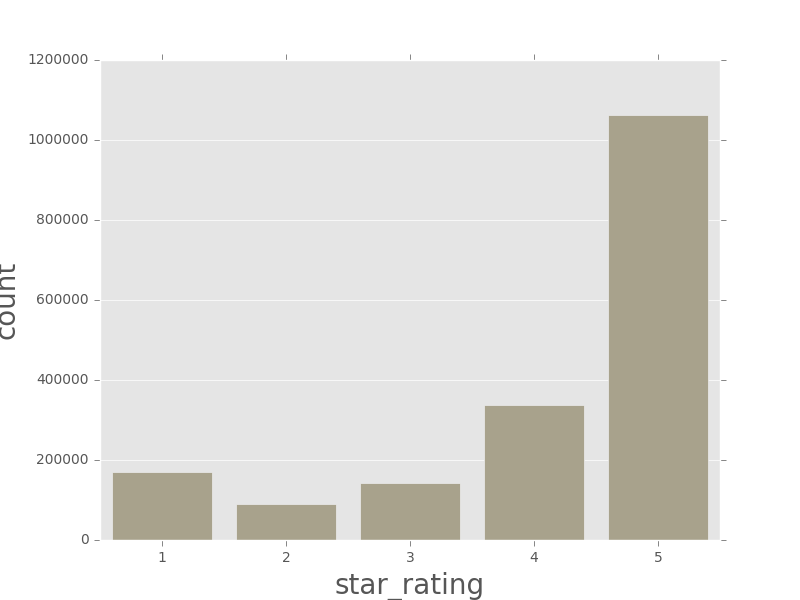
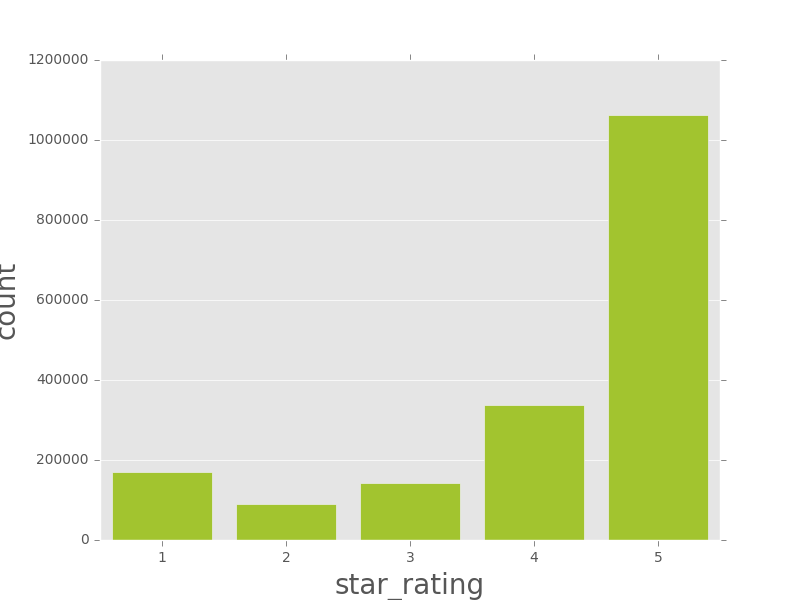
Update Results

Changed region(s): [[0.125, 0.18, 0.9062, 0.9]]

diff --git a/Hists_votes_dist.py b/Hists_votes_dist.py
@@ -1,0 +1,221 @@
+import matplotlib
+matplotlib.use('Agg')
+import os
+import pandas as pd
+import numpy as np
+import matplotlib.pyplot as plt
+import pylab
+import scipy.stats as stats
+import seaborn as sns
+matplotlib.style.use('ggplot')
+
+
+file = raw_input("Input File Name: ")
+color = raw_input("Input Hist Color: ")
+
+#Read Auto-MPG dataset into a Pandas data frame (mde .tsv  "Tab Seperated Value")
+#cover = pd.read_csv('/home/grant309/757Project/Data/amazon_reviews_us_Apparel_v1_00.tsv', delimiter="\t" , error_bad_lines=False)
+
+path = "/home/grant309/757Project/Figures/%s" % file
+print(path)
+
+#cover = pd.read_csv('/home/grant309/757Prject/Data/amazon_reviews_us_%s.tsv' % file, delimiter="\t" , error_bad_lines=False)
+cover = pd.read_csv('/home/grant309/757Project/DataPro/%s.tsv' % file, delimiter="\t", error_bad_lines=False)
+
+folder = file
+
+
+try:
+    os.makedirs(path)
+except OSError:
+    print("Could not create path: %s" % path)
+else:
+    print("Path %s created" % path)
+
+#Histograms
+'''
+#DISTPLOT for numerical values
+plt.figure(figsize=(8,6))
+ax = sns.distplot(cover['customer_id'], color=color)
+ax.yaxis.label.set_size(20)
+ax.xaxis.label.set_size(20)
+#plt.show()
+plt.savefig("/home/grant309/757Project/Figures/%s/customer_id" % folder)
+
+print("customer_id complete")
+
+plt.figure(figsize=(8,6))
+ax = sns.distplot(cover['product_parent'], color=color)
+ax.yaxis.label.set_size(20)
+ax.xaxis.label.set_size(20)
+#plt.show()
+plt.savefig("/home/grant309/757Project/Figures/%s/product_parent" % folder)
+
+print("product_parent complete")
+'''
+
+'''
+plt.figure(figsize=(8,6))
+ax = sns.distplot(cover['star_rating'].dropna(), color=color)
+ax.yaxis.label.set_size(20)
+ax.xaxis.label.set_size(20)
+#plt.show()
+plt.savefig("star_rating")
+
+print("star_rating complete")
+'''
+
+#COUNTPLOT for categoorical values
+'''
+plt.figure(figsize=(8,6))
+ax = sns.countplot(cover['star_rating'], color=color)
+ax.yaxis.label.set_size(20)
+ax.xaxis.label.set_size(20)
+#plt.show()
+plt.savefig("/home/grant309/757Project/Figures/%s/star_rating" % folder)
+
+print("star_rating complete")
+'''
+temp_votes = cover#.loc[lambda cover: cover['helpful_votes'] != 0]
+
+plt.figure(figsize=(8,6))
+ax = sns.distplot(temp_votes['helpful_votes'], color=color)
+ax.yaxis.label.set_size(20)
+ax.xaxis.label.set_size(20)
+#plt.show()
+plt.savefig("/home/grant309/757Project/Figures/%s/helpful_votes" % folder)
+
+print("helpful_votes complete")
+
+temp_votes = cover#.loc[lambda cover: cover['total_votes'] != 0]
+
+plt.figure(figsize=(8,6))
+ax = sns.distplot(temp_votes['total_votes'], color=color)
+ax.yaxis.label.set_size(20)
+ax.xaxis.label.set_size(20)
+#plt.show()
+plt.savefig("/home/grant309/757Project/Figures/%s/total_votes" % folder)
+
+print("total_votes complete")
+
+'''
+plt.figure(figsize=(8,6))
+ax = sns.countplot(cover['vine'], color=color, order = ["N","Y"])
+ax.yaxis.label.set_size(20)
+ax.xaxis.label.set_size(20)
+#plt.show()
+plt.savefig("/home/grant309/757Project/Figures/%s/vine" % folder)
+
+print("vine complete")
+
+plt.figure(figsize=(8,6))
+ax = sns.countplot(cover['verified_purchase'], color=color, order = ["Y","N"])
+ax.yaxis.label.set_size(20)
+ax.xaxis.label.set_size(20)
+#plt.show()
+plt.savefig("/home/grant309/757Project/Figures/%s/verified_purchase" % folder)
+
+print("verified_purchase complete")
+
+plt.figure(figsize=(8,6))
+ax = sns.countplot(cover['review_date'], color='blue')
+ax.yaxis.label.set_size(20)
+ax.xaxis.label.set_size(20)
+#plt.show()
+plt.savefig("/home/grant309/757Project/Figures/%s/review_date" % folder)
+
+print("review_date complete")
+
+plt.figure(figsize=(8,6))
+ax = sns.countplot(cover['product_id'], color=color)
+ax.yaxis.label.set_size(20)
+ax.xaxis.label.set_size(20)
+#plt.show()
+plt.savefig("/home/grant309/757Project/Figures/%s/product_id" % folder)
+
+print("product_id complete")
+
+plt.figure(figsize=(8,6))
+ax = sns.countplot(cover['product_category'], color=color)
+ax.yaxis.label.set_size(20)
+ax.xaxis.label.set_size(20)
+#plt.show()
+plt.savefig("/home/grant309/757Project/Figures/%s/product_category" % folder)
+
+print("product_category complete")
+'''
+
+#Each has unique Review ID
+#review_id skipped
+
+#Product Title is same as ID (unique to product)
+#Skipped product_title
+
+#Review Headline should be unique...?
+#skipped review_headline
+
+#Review Body should be unique...?
+#skipped review_body
+
+
+'''
+#Massive Scatter Matrix!!
+from pandas.plotting import scatter_matrix
+
+scatter_matrix(cover[["Elevation","Aspect","Slope","Horizontal_Distance_To_Hydrology","Vertical_Distance_To_Hydrology","Horizontal_Distance_To_Roadways","Hillshade_9am","Hillshade_noon","Hillshade_3pm","Horizontal_Distance_To_Fire_Points","Cover_Type"]],figsize = [16, 16],marker = ".", s = 0.2,diagonal="kde")
+plt.show()
+'''
+
+
+#Traditional Plots (matplotlib)
+'''
+plt.figure(figsize=(8,6))
+plt.hist(police.age, bins=30, color='xkcd:teal')
+plt.xlabel("age",fontsize=20)
+plt.ylabel("Counts",fontsize=20)
+plt.title("",fontsize=20)
+plt.show()
+'''
+
+
+
+#Traditional KDE Plots (matplotlib)
+'''
+plt.figure(figsize=(8,6))
+ax = police.manner_of_death_bin.plot.kde()
+ax.set_xlabel("manner_of_death",fontsize=20)
+ax.set_ylabel("",fontsize=20)
+ax.set_title("",fontsize=20)
+plt.show()
+
+'''
+
+#Booleans --> Error
+'''
+plt.figure(figsize=(8,6))
+ax = police.body_camera.astype(int).plot.kde()
+ax.set_xlabel("body_camera",fontsize=20)
+ax.set_ylabel("",fontsize=20)
+ax.set_title("",fontsize=20)
+plt.show()
+
+#booleans --> Error
+
+plt.figure(figsize=(8,6))
+ax = police.signs_of_mental_illness.astype(int).plot.kde()
+ax.set_xlabel("signs_of_mental_illness",fontsize=20)
+ax.set_ylabel("",fontsize=20)
+ax.set_title("",fontsize=20)
+plt.show()
+'''
+
+
+#Scatterplot (matplotlib)
+'''
+ax = cars2.plot.scatter('weight','mpg')
+ax.set_xlabel("Weight",fontsize=20)
+ax.set_ylabel("MPG",fontsize=20)
+ax.set_title("Scatterplot of MPG by Weight",fontsize=20)
+plt.show()
+'''
+

diff --git a/Descript.py b/Descript.py
@@ -16,18 +16,19 @@ matplotlib.style.use('ggplot')
 #Read Auto-MPG dataset into a Pandas data frame (mde .tsv  "Tab Seperated Value")
 #cover = pd.read_csv('/home/grant309/757Project/Data/amazon_reviews_us_Apparel_v1_00.tsv', delimiter="\t" , error_bad_lines=False)
 
-data = ['Apparel_v1_00',
+data = [
+'Apparel_v1_00',
 'Automotive_v1_00',
 'Baby_v1_00',
 'Beauty_v1_00',
 'Books_v1_00',
 #'Books_v1_01',
 #'Books_v1_02',
-'Camera_v1_00'#,
+'Camera_v1_00',
 #'Digital_Ebook_Purchase_v1_00',
 #'Digital_Ebook_Purchase_v1_01',
 #'Digital_Music_Purchase_v1_00',
-'Digital_Software_v1_00',
+'Digital_Software_v1_00'#,
 #'Digital_Video_Download_v1_00',
 #'Digital_Video_Games_v1_00',
 #'Electronics_v1_00',
